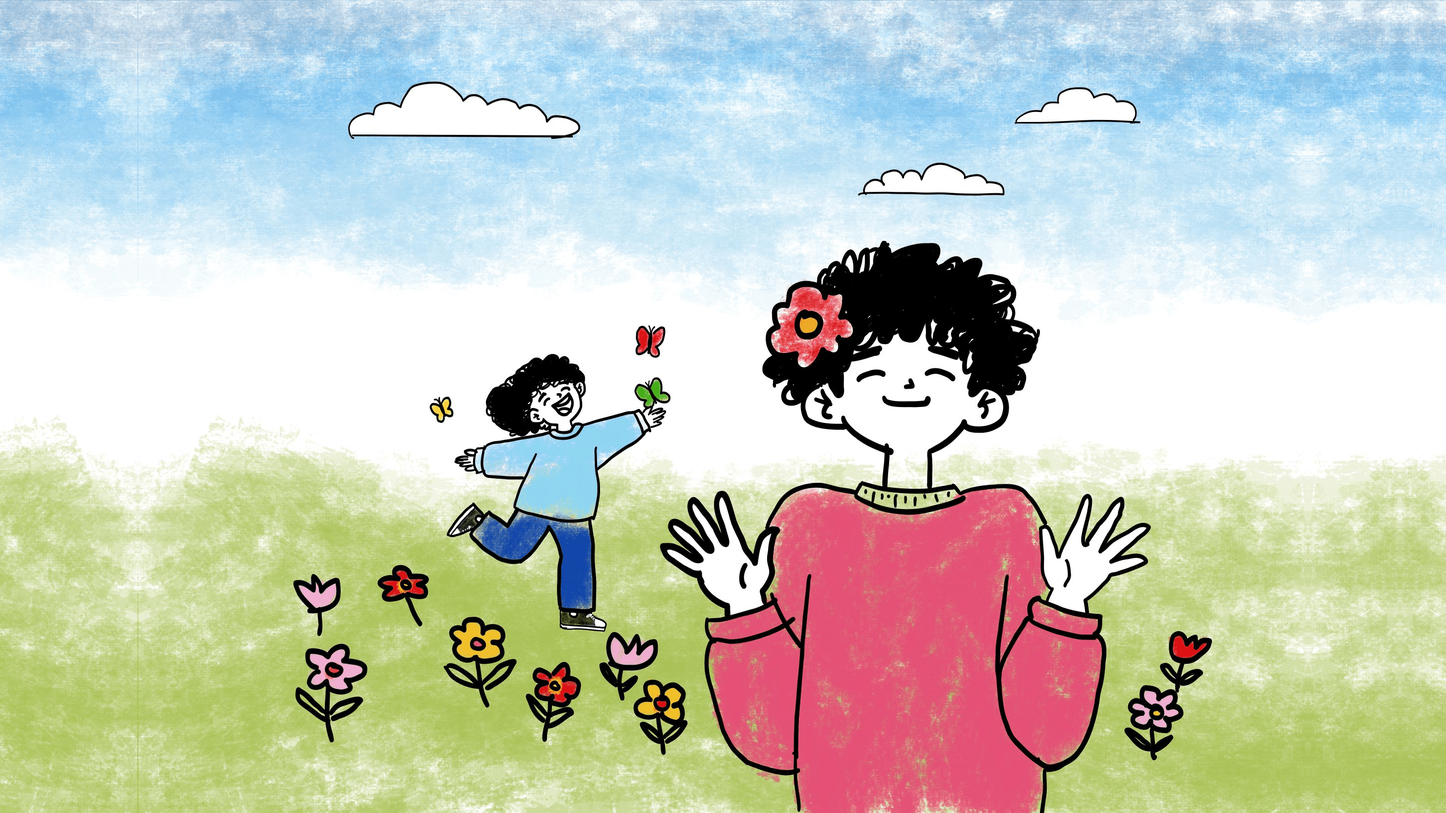
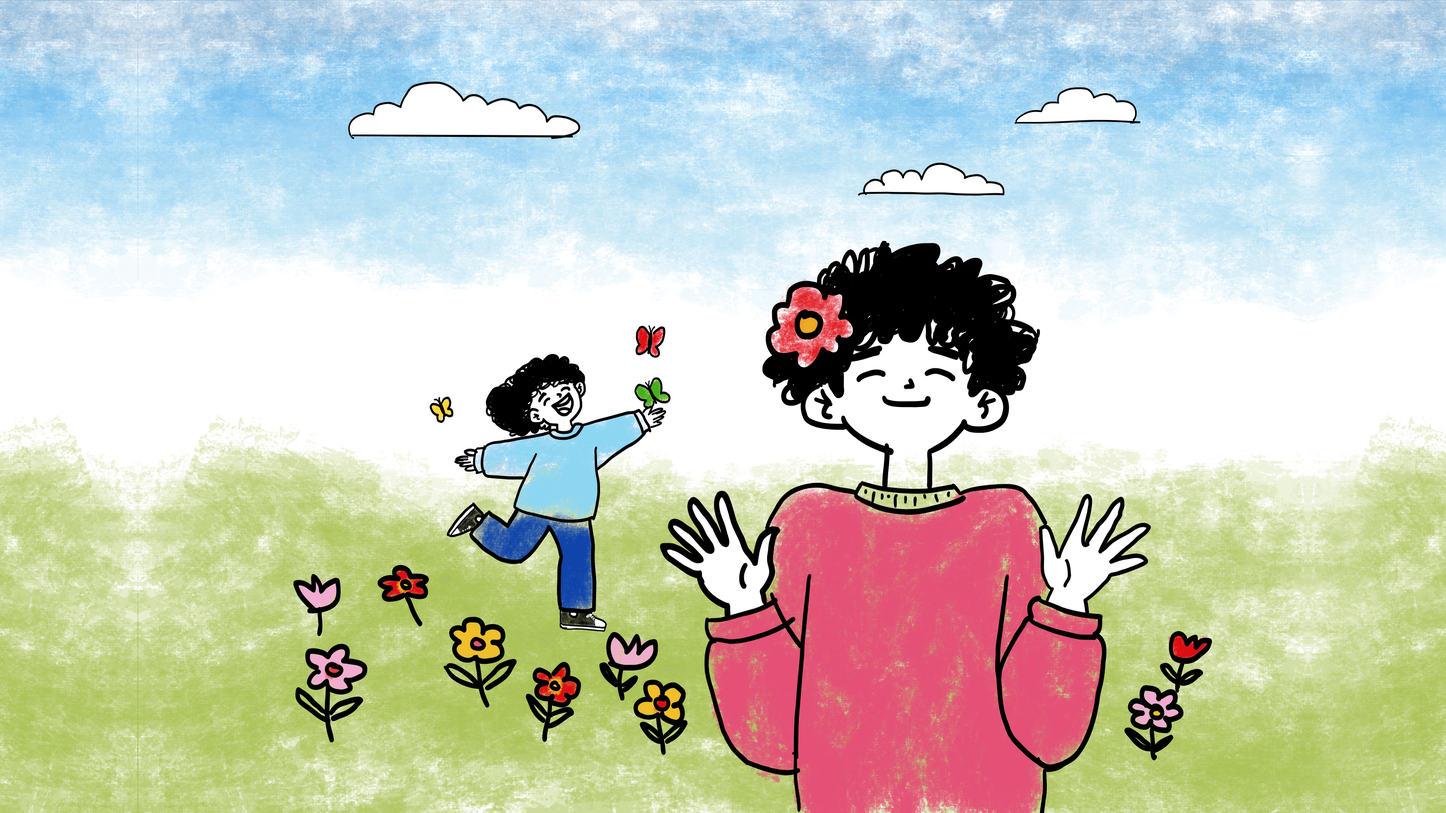
fix(storefront): fix navbar legibility over white hero and verify with Playwright
Switch ThemeProvider defaultTheme to light with storageKey='vyom-theme' so
visitors do not render white dark-mode text over the white hero sketch. Add
NavbarHeader client wrapper to keep navbar links and icons in dark ink
(#171717) while positioned over the hero illustration even if dark mode is
toggled. Add a frosted backdrop pill to the bottom scroll hint and smooth the
right-margin texture blend in hero-color.

Refs #91

diff --git a/src/components/layouts/navbar.tsx b/src/components/layouts/navbar.tsx
@@ -9,6 +9,7 @@ import { ThemeToggle } from "@/components/ui/theme-toggle";
 import { Wordmark } from "@/components/ui/wordmark";
 import { UserMenu } from "@/components/ui/user-menu";
 import { MobileNavMenu } from "@/components/layouts/mobile-nav-menu";
+import { NavbarHeader } from "@/components/layouts/navbar-header";
 import { cn } from "@/lib/utils";
 
 const NAV_LINKS = [
@@ -22,7 +23,7 @@ function LogoLockup() {
     <Link
       href="/"
       aria-label="Vyom — home"
-      className="inline-flex items-center py-1 text-foreground hover:opacity-75 transition-opacity"
+      className="inline-flex items-center py-1 text-neutral-900 dark:text-foreground hover:opacity-75 transition-opacity"
     >
       <Wordmark className="text-3xl leading-none" />
     </Link>
@@ -51,12 +52,7 @@ export async function Navbar({ className }: NavbarProps) {
   const admin = await isAdminEmail(user?.email);
 
   return (
-    <header
-      className={cn(
-        "sticky top-0 z-30 w-full bg-transparent",
-        className,
-      )}
-    >
+    <NavbarHeader className={className}>
       <div className="relative flex h-16 w-full items-center justify-between px-5 sm:px-8">
         <LogoLockup />
 
@@ -65,14 +61,14 @@ export async function Navbar({ className }: NavbarProps) {
             <Link
               key={link.href}
               href={link.href}
-              className="text-sm font-normal tracking-tight text-foreground/80 hover:text-foreground transition-colors duration-150"
+              className="text-sm font-medium tracking-tight text-neutral-800 dark:text-foreground/90 hover:text-neutral-950 dark:hover:text-foreground transition-colors duration-150"
             >
               {link.label}
             </Link>
           ))}
         </nav>
 
-        <div className="flex items-center gap-1.5">
+        <div className="flex items-center gap-1.5 [&_svg]:!size-5">
           <Button
             asChild
             variant="ghost"
@@ -80,7 +76,7 @@ export async function Navbar({ className }: NavbarProps) {
             aria-label={
               cartItemCount > 0 ? `Cart, ${cartItemCount} items` : "Cart"
             }
-            className="relative hover:bg-black/5 dark:hover:bg-white/10"
+            className="relative text-neutral-800 dark:text-foreground hover:bg-black/5 dark:hover:bg-white/10"
           >
             <Link href="/cart">
               <ShoppingCart className="size-5" />
@@ -100,7 +96,7 @@ export async function Navbar({ className }: NavbarProps) {
               ) : null}
             </Link>
           </Button>
-          <ThemeToggle />
+          <ThemeToggle className="text-neutral-800 dark:text-foreground hover:bg-black/5 dark:hover:bg-white/10" />
           {user ? (
             <UserMenu user={user as User} isAdmin={admin} />
           ) : (
@@ -109,7 +105,7 @@ export async function Navbar({ className }: NavbarProps) {
               variant="ghost"
               size="icon"
               aria-label="Profile — Sign in"
-              className="hover:bg-black/5 dark:hover:bg-white/10"
+              className="text-neutral-800 dark:text-foreground hover:bg-black/5 dark:hover:bg-white/10"
             >
               <Link href="/sign-in">
                 <UserIcon className="size-5" />
@@ -119,6 +115,6 @@ export async function Navbar({ className }: NavbarProps) {
           <MobileNavMenu links={NAV_LINKS} signedIn={Boolean(user)} />
         </div>
       </div>
-    </header>
+    </NavbarHeader>
   );
 }

diff --git a/src/components/layouts/navbar-header.tsx b/src/components/layouts/navbar-header.tsx
@@ -1,0 +1,51 @@
+"use client";
+
+import { usePathname } from "next/navigation";
+import { useEffect, useState, type ReactNode } from "react";
+import { cn } from "@/lib/utils";
+
+/**
+ * Client wrapper for the barless storefront Navbar.
+ * While over the white/pastel hand-drawn hero on `/`, forces dark ink
+ * (`#171717`) even if the user toggles dark mode, so the floating text
+ * and icons never turn white-on-white over the sketch.
+ */
+export function NavbarHeader({
+  className,
+  children,
+}: {
+  className?: string;
+  children: ReactNode;
+}) {
+  const pathname = usePathname();
+  const isHome = pathname === "/";
+  const [pastHero, setPastHero] = useState(false);
+
+  useEffect(() => {
+    if (!isHome) return;
+    const onScroll = () => {
+      // Hero section is 240vh tall (-mt-16), so it scrolls off between 1.4vh and 2.4vh.
+      setPastHero(window.scrollY > window.innerHeight * 2.15);
+    };
+    onScroll();
+    window.addEventListener("scroll", onScroll, { passive: true });
+    return () => window.removeEventListener("scroll", onScroll);
+  }, [isHome]);
+
+  const forceDarkInk = isHome && !pastHero;
+
+  return (
+    <header
+      data-on-hero={forceDarkInk ? "true" : undefined}
+      className={cn(
+        "sticky top-0 z-30 w-full bg-transparent transition-colors duration-200",
+        forceDarkInk
+          ? "text-neutral-900 [&_a]:!text-neutral-900 [&_button]:!text-neutral-900 [&_svg]:!text-neutral-900"
+          : "text-foreground",
+        className,
+      )}
+    >
+      {children}
+    </header>
+  );
+}

diff --git a/src/components/features/store/hero-reveal.tsx b/src/components/features/store/hero-reveal.tsx
@@ -174,15 +174,15 @@ export function HeroReveal({
         {/* Scroll hint */}
         <div
           ref={hintRef}
-          className="pointer-events-none absolute bottom-8 left-1/2 z-20 -translate-x-1/2 text-center transition-opacity duration-300"
+          className="pointer-events-none absolute bottom-7 left-1/2 z-20 -translate-x-1/2 text-center transition-opacity duration-300"
         >
-          <p className="text-sm text-neutral-500">
+          <p className="rounded-full bg-white/85 px-4 py-1 text-sm font-medium text-neutral-800 shadow-xs backdrop-blur-sm whitespace-nowrap">
             {finePointer
               ? "Move your cursor · scroll to bring it to life"
               : "Scroll to bring it to life"}
           </p>
-          <div className="mx-auto mt-2 h-8 w-5 rounded-full border border-neutral-300">
-            <div className="mx-auto mt-1.5 h-1.5 w-1 animate-bounce rounded-full bg-neutral-400" />
+          <div className="mx-auto mt-2 h-8 w-5 rounded-full border border-neutral-400 bg-white/75 backdrop-blur-sm">
+            <div className="mx-auto mt-1.5 h-1.5 w-1 animate-bounce rounded-full bg-neutral-700" />
           </div>
         </div>
       </div>

diff --git a/src/components/layouts/theme-provider.tsx b/src/components/layouts/theme-provider.tsx
@@ -9,7 +9,8 @@ export function ThemeProvider({ children, ...props }: ThemeProviderProps) {
   return (
     <NextThemesProvider
       attribute="class"
-      defaultTheme="dark"
+      defaultTheme="light"
+      storageKey="vyom-theme"
       enableSystem={false}
       disableTransitionOnChange
       {...props}

diff --git a/BUILD-JOURNAL.md b/BUILD-JOURNAL.md
@@ -2123,3 +2123,4 @@ just added noise. CLAUDE.md §14 updated; rule saved to memory at
 2. **Storefront `<HeroReveal />` (`src/components/features/store/hero-reveal.tsx` & `src/app/(storefront)/page.tsx`)** — Promoted the cursor-tracked + scroll-expanding radial sketch-to-colour reveal from `/demo/hero` to the main homepage (`/`), followed by the `#about` section (*"Stories worth colouring in"*), Three Pillars, and `<BookwormReading />`.
 3. **Top navigation cleanup (`src/components/layouts/navbar.tsx` & `src/components/layouts/footer.tsx`)** — Removed top-level `IBDP` and `IGCSE` links from `Navbar` (kept in `/store` filters and footer), updated top nav to `Store`, `Community`, and `About Us` (`/#about`), set the left brand lockup to the Devanagari `व्योम` `<Wordmark />`, and aligned right-side controls (`Cart`, `ThemeToggle`, `Profile`).
 4. **16:9 Canvas Extension, Barless Nav & Direct-to-Store Scroll (`src/app/(storefront)/page.tsx`, `src/components/layouts/navbar.tsx`)** — Extended `hero-outline` and `hero-color` from 4:3 (2360×1640) to 16:9 widescreen (2916×1640) via seamless side-texture continuation so the full vertical height of the illustration fits desktop screens without cropping. Removed the background bar/border from `Navbar` (floating `व्योम` left, Apple-style centered `Store · Community · About Us`, 3 icon symbols right), removed the placeholder About/Pillars/Mascot blocks from `/`, and wired scrolling past the hero directly into `<StoreListing />`.
+5. **Navbar Legibility & Light-Mode Default Fix (`src/components/layouts/theme-provider.tsx`, `src/components/layouts/navbar-header.tsx`)** — Verified with Playwright (`@playwright/test`): `defaultTheme="dark"` was rendering `text-foreground` (white) over the `#FFFFFF` hero sketch when the navbar bar was removed. Switched `ThemeProvider` to `defaultTheme="light"` with `storageKey="vyom-theme"` (resetting stale dark-mode `localStorage` entries), added `<NavbarHeader />` to enforce dark ink (`#171717`) while over the hero even when dark mode is toggled, added a subtle frosted pill behind the scroll hint so it remains legible over the black sketch lines, and eliminated the right-edge texture seam in `hero-color.webp`.
